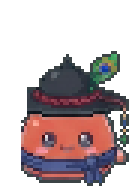
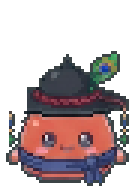
art+unity: 창 뗀 자리 몸을 좌우 대칭으로 채움(왼쪽 잘림 고침), 창은 눕히지 않고 최대 40도만 기울여 찌르기
Claude-Session: https://claude.ai/code/session_01516Ff1ezD39vnqGwiHhyKB

Changed region(s): [[0.0303, 0.5914, 0.1818, 0.8871], [0.1818, 0.5914, 0.2121, 0.6183]]

diff --git a/unity/Assets/Scripts/Game/AttackMotion.cs b/unity/Assets/Scripts/Game/AttackMotion.cs
@@ -4,7 +4,8 @@ namespace Mallang
 {
     /// <summary>
     /// 공격 모션 (미리보기).
-    /// 무기 파츠가 있으면(창병 등): 창을 목표 쪽으로 돌려 겨눔(0.1초) → 뒤로 당김 → 쭉 찔러 넣기(0.07초) → 빼서 세워 들기(0.2초).
+    /// 무기 파츠가 있으면(창병 등): 창을 세운 채 목표 쪽으로 비스듬히(최대 40도) 기울이며 뒤로 당김(0.1초)
+    ///   → 목표 쪽으로 쭉 찔러 넣기(0.07초) → 잠깐 멈춤 → 빼서 다시 세워 들기(0.2초).
     ///   몸은 찌르는 순간 목표 쪽으로 살짝 기울며 늘어난다.
     /// 무기 파츠가 없으면(기본 슬라임): 사거리 안 가장 앞선 몬스터를 향해
     ///   ① 움츠림(0.07초, 납작) → ② 튀어나가며 찌르기(0.08초, 길쭉 + 목표 쪽으로 몇 도트) → ③ 제자리로 말랑 복귀(0.18초)
@@ -49,9 +50,8 @@ namespace Mallang
                 target = FindTarget();
                 if (target == null) { cooldown = 0.1f; return; }
                 dir = (target.BoardPos - Foot).normalized;
-                // 창끝(위 = 0도)이 목표를 보도록: 월드 방향(dx, -dy)
-                aimAngle = Mathf.Atan2(-dir.y, dir.x) * Mathf.Rad2Deg - 90f;
-                if (aimAngle < -180) aimAngle += 360;
+                // 창은 눕히지 않고 목표 쪽으로만 비스듬히 (최대 40도). 창끝 위 = 0도, 오른쪽으로 기울면 음수.
+                aimAngle = -Mathf.Sign(dir.x) * Mathf.Lerp(15f, 40f, Mathf.Abs(dir.x));
                 t = 0; struck = false;
                 cooldown = interval;
             }
@@ -88,7 +88,7 @@ namespace Mallang
 
         void WeaponStab()
         {
-            float reach = 14f + slime.Tier * 4f;   // 찔러 넣는 거리 (보드)
+            float reach = 12f + slime.Tier * 3f;   // 찔러 넣는 거리 (보드)
             float ang, push; float sx = 1, sy = 1; Vector2 lean = Vector2.zero;
             if (t < Aim)
             {   // 겨누기: 창을 목표 쪽으로 돌리며 살짝 뒤로 당김, 몸은 움츠림

diff --git a/art/tools/slime/split_weapon.py b/art/tools/slime/split_weapon.py
@@ -69,6 +69,21 @@ def main(branch='spear'):
         a = np.asarray(Image.open(os.path.join(DOTS, f'{branch}-{rk}.png'))).copy()
         w, grip, top = split(a)
         body = a.copy(); body[w, 3] = 0
+        # 창을 떼어 낸 자리(몸 왼쪽이 세로로 잘림)를 몸 오른쪽을 좌우로 뒤집어 채운다 (슬라임 몸은 좌우 대칭)
+        feet = json.load(open(os.path.join(DOTS, 'feet.json'), encoding='utf-8'))
+        cx = feet[f'{branch}-{rk}'][0]          # 발 x = 몸 가운데
+        H, W = w.shape
+        for y, x in zip(*np.where(w)):
+            if y < top - 2: continue                   # 몸보다 위(창끝·술)는 채우지 않음
+            mx = int(round(2 * cx - x - 1))
+            if 0 <= mx < W and a[y, mx, 3] > 0 and not w[y, mx]:
+                body[y, x] = a[y, mx]
+        # 떼어 내고 남은 창 부스러기(몸과 안 붙은 작은 점) 지우기
+        bl, bn = ndimage.label(body[..., 3] > 0, structure=np.ones((3, 3)))
+        if bn > 1:
+            sizes = ndimage.sum(np.ones_like(bl), bl, range(1, bn + 1))
+            keep_id = 1 + int(np.argmax(sizes))
+            body[(bl != keep_id) & (bl > 0), 3] = 0
         weap = a.copy(); weap[~w, 3] = 0
         Image.fromarray(body).save(os.path.join(PARTS, f'{branch}-{rk}-body.png'))
         Image.fromarray(weap).save(os.path.join(PARTS, f'{branch}-{rk}-weapon.png'))
